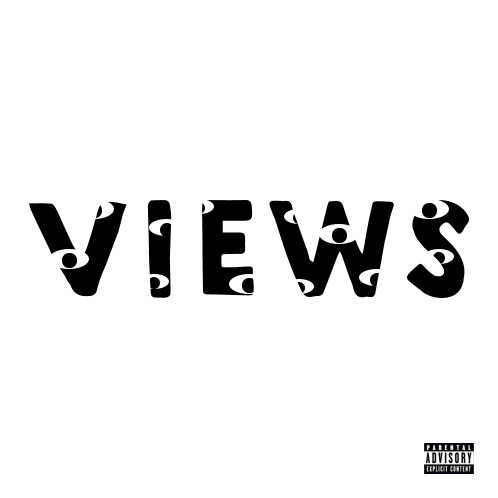
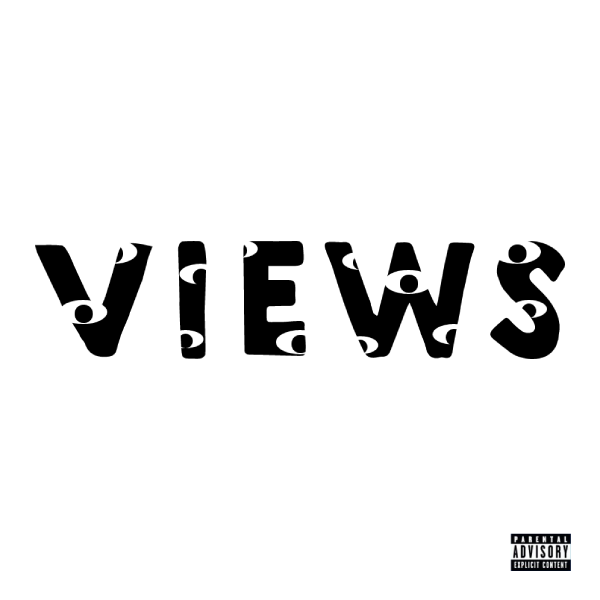
Update fb meta

diff --git a/drake-albums/index.html b/drake-albums/index.html
@@ -23,8 +23,10 @@
 <meta property="og:url" content="http://darrendub.com/drake-albums" />
 <meta property="og:type" content="website" />
 <meta property="og:title" content="Drake CSS Albums" />
+<meta property="og:image:width" content="600" />
+<meta property="og:image:height" content="600" />
 <meta property="og:description" content="Animating Drake's disography with Cascading Style Sheets" />
-<meta property="og:image" content="http://darrendub.com/drake-albums/img/fb-summary.png" />
+<meta property="og:image" content="http://darrendub.com/drake-albums/img/fb-summary-sq.png" />
 </head>
 <body>
   <div class="content bg-light-gray">
